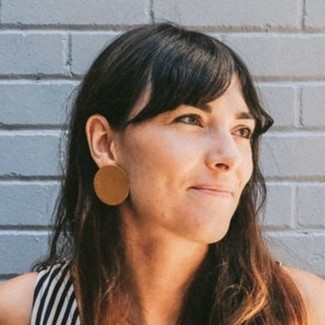
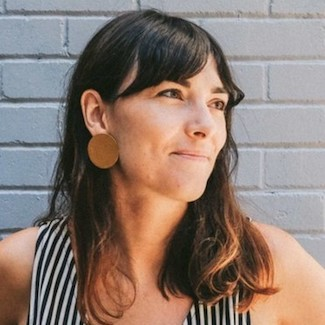
DE website

diff --git a/DE - pro/audioguide-orte-der-erinnerung.html b/DE - pro/audioguide-orte-der-erinnerung.html
@@ -59,31 +59,32 @@
     <title>Interaktive und multimediale Audioguides für Orte der Erinnerung
     </title>
     <meta name="description"
-          content="Le guide multimédia interactif qui, en plus d'accompagner votre exposition, enrichit votre collection de nouveaux éléments et de témoignages.">
+          content="Ein interaktiver Multimediaguide, womit sich zusätzlich Dokumente, Familienfotos und historische Zeugnisse von den Besuchern sammeln lassen.">
     <meta name="author" content="Nubart">
     <meta name="viewport" content="width=device-width, initial-scale=1.0">
     <meta name="twitter:card" content="summary_large_image">
     <meta name="twitter:description"
-          content="Le guide multimédia interactif qui, en plus d'accompagner votre exposition, enrichit votre collection de nouveaux éléments et de témoignages.">
+          content="Ein interaktiver Multimediaguide, womit sich zusätzlich Dokumente, Familienfotos und historische Zeugnisse von den Besuchern sammeln lassen.">
     <meta name="twitter:site" content="@nubartD">
     <meta name="twitter:creator" content="@nubartD">
     <meta name="twitter:image" content="https://www.nubart.eu/assets/img/tw-card/nubart-cover-tw-de.jpg">
 
     <!-- OpenGraph for Linkedin -->
 
-    <meta property="og:title" content="Audioguides interactifs multimédias pour les musées du patrimoine"/>
+    <meta property="og:title" content="Ein interaktiver Multimediaguide, womit sich zusätzlich Dokumente, Familienfotos und historische Zeugnisse von den Besuchern sammeln lassen.">
     <meta property="og:image" content="https://www.nubart.eu/img/tw-card-main-page-de.png"/>
     <meta property="og:author" content="Nubart International"/>
     <meta property="og:description"
-          content="Le guide multimédia interactif qui, en plus d'accompagner votre exposition, enrichit votre collection de nouveaux éléments et de témoignages.">
+          content="Ein interaktiver Multimediaguide, womit sich zusätzlich Dokumente, Familienfotos und historische Zeugnisse von den Besuchern sammeln lassen.">
     <meta property="og:type" content="website"/>
-    <meta property="og:url" content="https://www.nubart.eu/fr/audioguide-musees-patrimoine.html">
+    <meta property="og:url" content="https://www.nubart.eu/de/audioguide-orte-der-erinnerung.html">
 
     <!-- hreflang -->
-    <link rel="canonical" href="https://www.nubart.eu/fr/audioguide-musees-patrimoine.html"/>
+    <link rel="canonical" href="https://www.nubart.eu/de/audioguide-orte-der-erinnerung.html"/>
     <link rel="alternate" href="https://www.nubart.eu/audioguide-heritage.html" hreflang="x-default"/>
     <link rel="alternate" href="https://www.nubart.eu/audioguide-heritage.html" hreflang="en"/>
     <link rel="alternate" href="https://www.nubart.eu/fr/audioguide-musees-patrimoine.html" hreflang="fr"/>
+    <link rel="alternate" href="https://www.nubart.eu/de/audioguide-orte-der-erinnerung.html" hreflang="de"/>
 
     <!-- Icons 	-->
 
@@ -187,10 +188,10 @@
     <div class="container">
 
         <div class="d-flex justify-content-between align-items-center">
-            <h2>Guides audio pour les musées du patrimoine</h2>
+            <h2>Audioguides für Gedenkstätten und Orte der Erinnerung</h2>
             <ol>
                 <li><a href="index.html">Startseite</a></li>
-                <li>Musées du patrimoine</li>
+                <li>Orte der Erinnerung</li>
             </ol>
         </div>
 
@@ -212,26 +213,25 @@
 
             <div class="col-lg-6 pt-3 pt-lg-0 content">
                 <br>
-                <h1>Guides interactifs multimédias pour les musées d'histoire contemporaine et du patrimoine</h1>
+                <h1>Interaktive Multimedia-Audioguides für Gedenkstätten und Orte der Erinnerung</h1>
                 <br>
                 <p>
-                    Plus qu'un simple support d'exposition, Nubart offre un guide multimédia interactif à la portée de tous !
+                    Nubart bietet einen interaktiven Multimedia-Guide, der viel mehr ist als nur ein Ausstellungsbegleiter.
                 </p>
                 <p>
-                    Les musées du patrimoine traitent souvent de sujets sensibles. Nubart vous aidera à bien faire passer le message et à replacer les objets exposés dans leur contexte historique.
+                    Orte der Erinnerungen und Gedenkstätten befassen sich mit sensiblen Themen. Nubart hilft Ihnen, kuratierte Informationen zu vermitteln und die Exponate in den historischen Kontext zu stellen.
 
                 </p>
                 <p>
-                    Grâce à notre bouton "plus d'informations", vous pouvez compléter votre visite par des informations détaillées que vos visiteurs pourront consulter chez eux.
+                    Mit dem ausklappbaren "Mehr-Infos"-Button von Nubart können Sie Ihre Tour mit detaillierten Informationen ergänzen, die Ihre Besucher zu Hause nachhören können.
 
                 </p>
                 <p>
-                    De même, grâce à notre bouton de téléchargement, vos visiteurs pourront facilement enrichir vos archives avec de nouveaux documents et témoignages qui, autrement, seraient perdus.
+                    Außerdem können Ihre Besucher mit unserer Upload-Schaltfläche Ihr Archiv mit neuen Dokumenten und Zeugnissen bereichern, die sonst vielleicht für immer verloren wären.
 
                 </p>
                 <p>
-                    Nos cartes sont non transférables, mais réutilisables par leur propriétaire légitime.
-                    Elles sont hygiéniques, faciles à utiliser et ne doivent pas être collectées, puisque les visiteurs les conservent.
+                    Unsere Karten sind nicht übertragbar, aber von ihrem rechtmäßigen Besitzer wiederverwendbar. Sie sind hygienisch, einfach zu benutzen und müssen nicht eingesammelt werden, da die Besucher sie behalten.
 
                 </p>
                 <p>

diff --git a/audio-guides.html b/audio-guides.html
@@ -524,26 +524,23 @@
 
             <div class="section-title">
                 <h2>Services</h2>
-                <p>Consultez les services de Nubart</p>
+                <p>Check Nubart's Services</p>
             </div>
 
             <div class="row" data-aos="fade-up" data-aos-delay="200">
                 <div class="col-md-6">
                     <div class="icon-box">
                         <i class="bi bi-mic"></i>
-                        <h4><a href="../fr/production-contenus.html">Production de contenus</a></h4>
-                        <p>
-                            Vous avez besoin d'un script, de traductions et/ou d'enregistrements pour votre audioguide ? Nos responsables de production s'en chargeront pour vous. Nous ne travaillons qu'avec des traducteurs, des artistes vocaux et des monteurs de son professionnels. Nous proposons trois niveaux de service.
-                        </p>
+                        <h4><a href="content-production.html">Content production</a></h4>
+                        <p>Do you need script, translations and/or voice overs for your audio guide? Our production managers will get that done for
+                            you. We only work with professional translators, voice artists and sound editors. We offer three levels of service. </p>
                     </div>
                 </div>
                 <div class="col-md-6 mt-4 mt-md-0">
                     <div class="icon-box">
                         <i class="bi bi-collection-play-fill"></i>
-                        <h4><a href="../fr/multimedia-audioguide.html">Éléments multimédia</a></h4>
-                        <p>
-                            Dans les audioguides Nubart, vous pouvez intégrer de multiples éléments multimédias : vidéos, lecteurs de PDF sur place, images déclenchées par la piste audio, boutons de téléchargement de fichiers ou de messages vocaux...
-                        </p>
+                        <h4><a href="multimedia-audioguide.html">Multimedia elements</a></h4>
+                        <p>In Nubart audio guides you can integrate multiple multimedia elements: videos, images triggered by the audio track, upload-buttons for files or voice messages...</p>
                     </div>
                 </div>
 

diff --git a/audioguide-heritage.html b/audioguide-heritage.html
@@ -77,6 +77,8 @@
     <link rel="canonical" href="https://www.nubart.eu/audioguide-heritage.html"/>
     <link rel="alternate" href="https://www.nubart.eu/audioguide-heritage.html" hreflang="x-default"/>
     <link rel="alternate" href="https://www.nubart.eu/audioguide-heritage.html" hreflang="en"/>
+    <link rel="alternate" href="https://www.nubart.eu/fr/audioguide-musees-patrimoine.html" hreflang="fr"/>
+    <link rel="alternate" href="https://www.nubart.eu/de/audioguide-orte-der-erinnerung.html" hreflang="de"/>
 
     <!-- Icons 	-->
 
@@ -226,15 +228,12 @@
                     Heritage museums often deal with sensitive issues. Nubart will help you to control the message and place the exhibits in
                     their historical context. </p>
                 <p>
-                    With Nubart's collapsable "more-info"-button you can complement your tour with in-depth information for your visitors to check
-                    at home. </p>
+                    With Nubart's collapsable "more-info"-button you can complement your tour with in-depth information for your visitors to check at home. </p>
                 <p>
-                    Also, with our upload button your visitors will be able to easily enrich your archive with new documents and testimonials that
-                    otherwise would get
-                    lost. </p>
+                    Also, with our upload button your visitors will be able to easily enrich your archive with new documents and testimonials that otherwise would get lost. </p>
                 <p>
-                    Our cards are non-transferable, but reusable by its legitimate owner. They are hygienic,
-                    easy to use and don't have to be collected, since visitors keep them.<br/><br/>
+                    Our cards are non-transferable, but reusable by its legitimate owner. They are hygienic, easy to use and don't have to be collected, since visitors keep them.
+                    <br/><br/>
                     Printed on eco-friendly materials and 100% carbon-neutral. </p>
 
             </div>

diff --git a/DE - pro/team.html b/DE - pro/team.html
@@ -302,7 +302,7 @@
                 </div>
                 <div class="col-lg-2 col-md-6" data-aos="fade-up" data-aos-delay="300">
                     <div class="member">
-                        <div class="pic"><img src="../assets/img/team/claudia.png" class="img-fluid" alt=""></div>
+                        <div class="pic"><img src="../assets/img/team/claudia.jpg" class="img-fluid" alt=""></div>
                         <div class="member-info">
                             <h4>Claudia Casallas</h4>
                             <span>Produktion - Talent-Rekrutierung</span>

diff --git a/fr/equipe.html b/fr/equipe.html
@@ -299,7 +299,7 @@
                 </div>
                 <div class="col-lg-2 col-md-6" data-aos="fade-up" data-aos-delay="300">
                     <div class="member">
-                        <div class="pic"><img src="../assets/img/team/claudia.png" class="img-fluid" alt=""></div>
+                        <div class="pic"><img src="../assets/img/team/claudia.jpg" class="img-fluid" alt=""></div>
                         <div class="member-info">
                             <h4>Claudia Casallas</h4>
                             <span>Production - Recrutement talents</span>

diff --git a/team.html b/team.html
@@ -293,7 +293,7 @@
                 </div>
                 <div class="col-lg-2 col-md-6" data-aos="fade-up" data-aos-delay="300">
                     <div class="member">
-                        <div class="pic"><img src="assets/img/team/claudia.png" class="img-fluid" alt=""></div>
+                        <div class="pic"><img src="assets/img/team/claudia.jpg" class="img-fluid" alt=""></div>
                         <div class="member-info">
                             <h4>Claudia Casallas</h4>
                             <span>Production - Talent recruitment</span>

diff --git a/fr/audioguide-musees-patrimoine.html b/fr/audioguide-musees-patrimoine.html
@@ -84,7 +84,7 @@
     <link rel="alternate" href="https://www.nubart.eu/audioguide-heritage.html" hreflang="x-default"/>
     <link rel="alternate" href="https://www.nubart.eu/audioguide-heritage.html" hreflang="en"/>
     <link rel="alternate" href="https://www.nubart.eu/fr/audioguide-musees-patrimoine.html" hreflang="fr"/>
-
+    <link rel="alternate" href="https://www.nubart.eu/de/audioguide-orte-der-erinnerung.html" hreflang="de"/>
     <!-- Icons 	-->
 
     <link rel="apple-touch-icon" sizes="180x180" href="../assets/img/apple-touch-icon.png">
